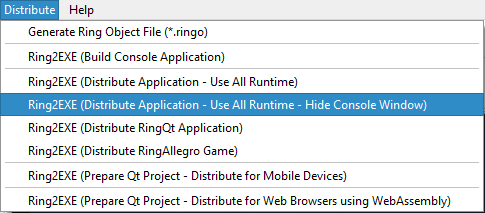
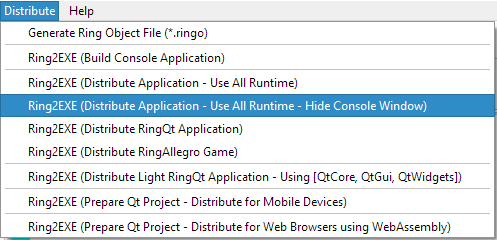
Update Documentation - Using Ring Notepad - Update the distribute menu image

diff --git a/documents/build/html/ringnotepad.html b/documents/build/html/ringnotepad.html
@@ -169,6 +169,9 @@
 <li class="toctree-l1"><a class="reference internal" href="zerolib.html">ZeroLib Functions Reference</a></li>
 <li class="toctree-l1"><a class="reference internal" href="foxringfuncsdoc.html">FoxRing Functions Reference</a></li>
 <li class="toctree-l1"><a class="reference internal" href="bignumber.html">BigNumber Functions Reference</a></li>
+<li class="toctree-l1"><a class="reference internal" href="csvlib.html">CSVLib Functions Reference</a></li>
+<li class="toctree-l1"><a class="reference internal" href="jsonlib.html">JSONLib Functions Reference</a></li>
+<li class="toctree-l1"><a class="reference internal" href="tokenslib.html">TokensLib Functions Reference</a></li>
 <li class="toctree-l1"><a class="reference internal" href="libcurl.html">Using RingLibCurl</a></li>
 <li class="toctree-l1"><a class="reference internal" href="ringlibcurlfuncsdoc.html">RingLibCurl Functions Reference</a></li>
 <li class="toctree-l1"><a class="reference internal" href="socket.html">Using RingSockets</a></li>
